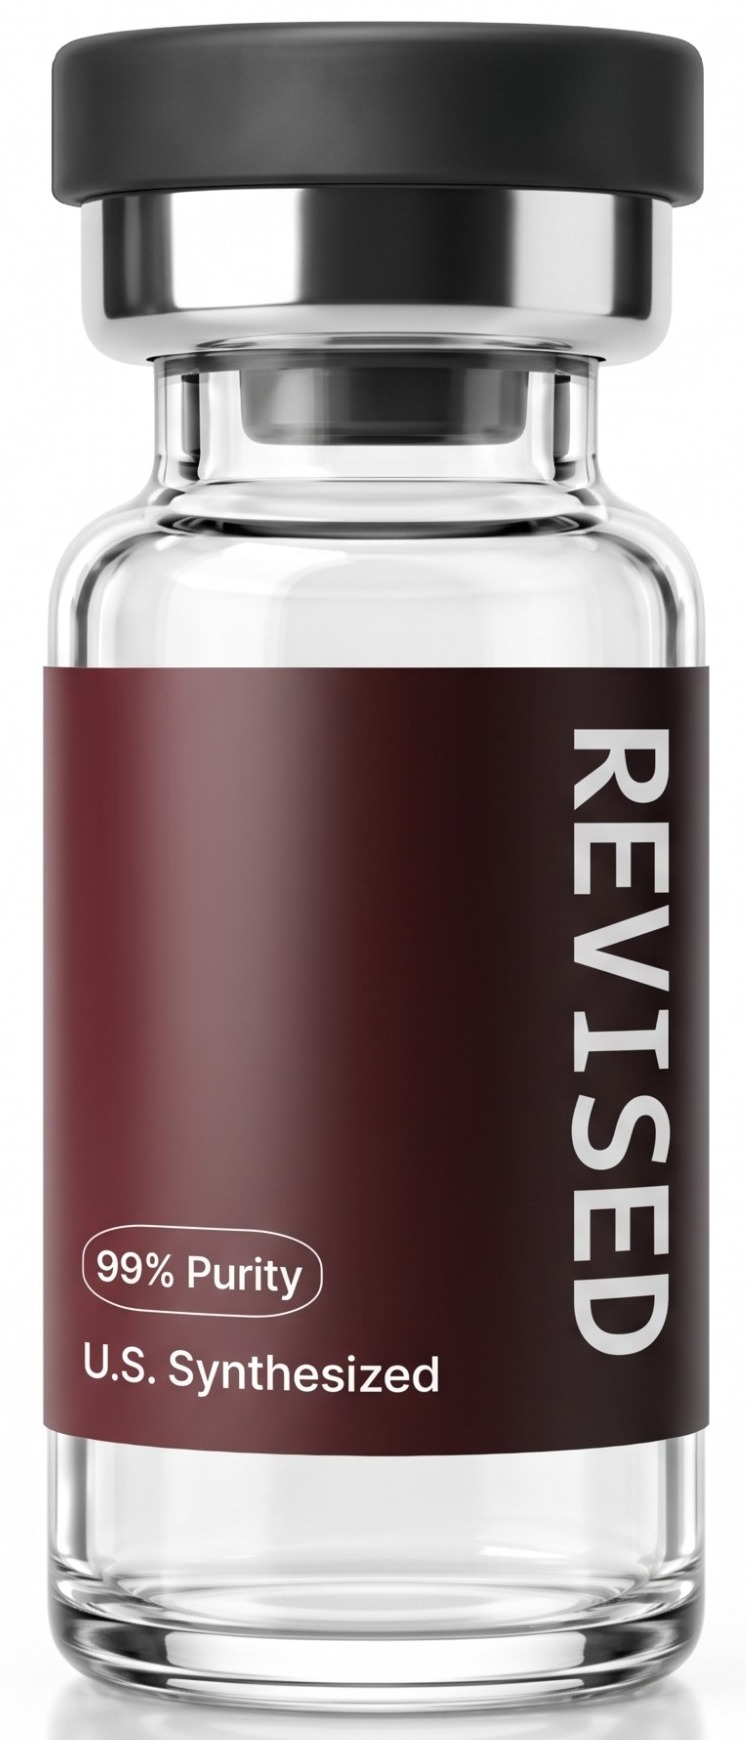
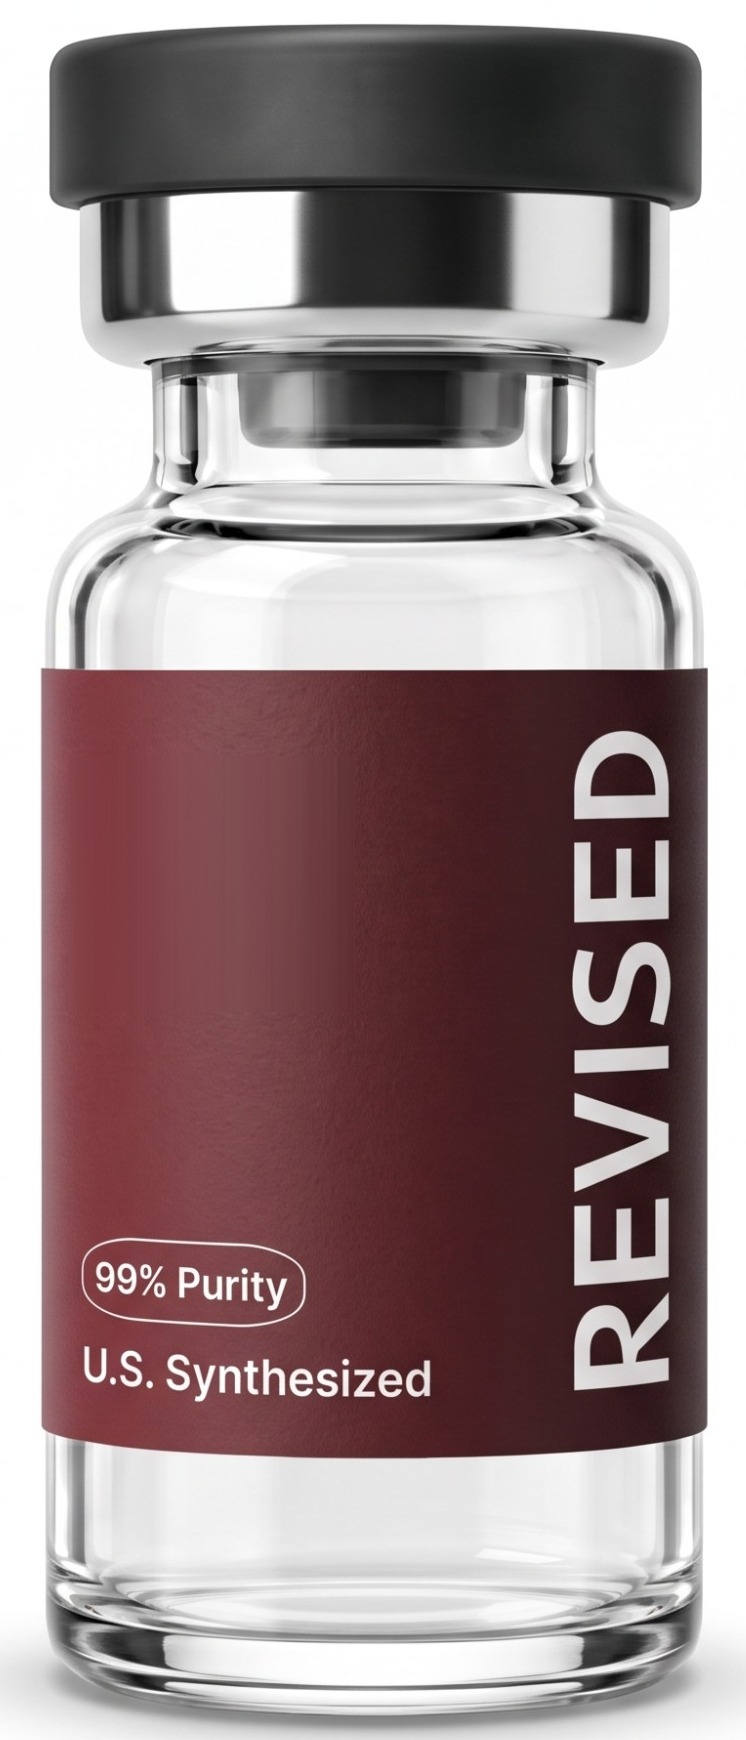
Vials: new photo set, clean glass bases, per-color text fit
- New studio shots for all three colors (navy on a gray backdrop).
- build-vials.mjs keys against the backdrop measured per row on both
  sides (handles gray/vignetted backdrops), uses a soft alpha knee instead
  of a hard cutoff (no blocky patches in the glass), fades out everything
  below the glass base, and keeps the cap/crimp's original pixels when
  filling it solid. CALIB_DIR exports un-erased crops for text checks.
- Name/pill positions re-measured against each photo (within ~2px);
  the navy photo prints larger, so it gets its own scale and offsets
  (vial-photo--metabolic). Long names still fit left of REVISED.

Claude-Session: https://claude.ai/code/session_01PrTRNVC7XRzDvkBfei43zw

diff --git a/components/Vial.tsx b/components/Vial.tsx
@@ -9,9 +9,8 @@
  * Text is sized in container-query units (cqw) so it stays locked to the
  * label at every rendered size, from 18px thumbnails to the PDP stage.
  */
-/** Label colors with a photo; anything else (bundles, supplies) uses navy. */
+/** Label colors with a photo; anything else (bundles, supplies) uses navy (metabolic). */
 const TONES = new Set(["repair", "metabolic", "cognitive"]);
-export const VIAL_SRC = "/vial/vial-metabolic.webp";
 
 export function Vial({
   name,
@@ -25,15 +24,16 @@ export function Vial({
   accent?: string;
   className?: string;
 }) {
+  const tone = accent && TONES.has(accent) ? accent : "metabolic";
   const label = name.length > 16 ? name.split(" ")[0] : name;
-  // Fit left of the vertical wordmark (~58% of the vial width; semibold sans ≈ 0.62em per glyph),
-  // capped at the size the name is printed in the studio design.
-  const size = Math.min(15, +(58 / (Math.max(label.length, 1) * 0.62)).toFixed(2));
+  // Fit left of the vertical wordmark (~56% of the vial width; semibold sans ≈ 0.62em per glyph),
+  // capped at the size the name is printed in the studio photo (--vp-scale: navy prints larger).
+  const fit = +(56 / (Math.max(label.length, 1) * 0.62)).toFixed(2);
   return (
-    <span className={"vial-photo " + className} role="img" aria-label={`${name}${option ? " " + option : ""} research vial`}>
+    <span className={`vial-photo vial-photo--${tone} ${className}`} role="img" aria-label={`${name}${option ? " " + option : ""} research vial`}>
       {/* eslint-disable-next-line @next/next/no-img-element */}
-      <img src={accent && TONES.has(accent) ? `/vial/vial-${accent}.webp` : VIAL_SRC} alt="" width={746} height={1740} decoding="async" draggable={false} />
-      <span className="vp-name" style={{ fontSize: `${size}cqw` }}>{label}</span>
+      <img src={`/vial/vial-${tone}.webp`} alt="" width={746} height={1740} decoding="async" draggable={false} />
+      <span className="vp-name" style={{ fontSize: `min(${fit}cqw, calc(15cqw * var(--vp-scale, 1)))` }}>{label}</span>
       {option ? <span className="vp-opt">{option.replace(/\s+/g, "")}</span> : null}
     </span>
   );

diff --git a/styles/shop.css b/styles/shop.css
@@ -56,15 +56,19 @@
   -webkit-mask-image: linear-gradient(180deg, #000 97%, transparent 100%); mask-image: linear-gradient(180deg, #000 97%, transparent 100%);
 }
 .vp-name {
-  position: absolute; left: 10.2%; top: 43.7%; line-height: 1; white-space: nowrap;
-  font-family: var(--font-sans); font-weight: 600; letter-spacing: -0.035em; color: var(--label-ink);
+  position: absolute; left: 10.7%; top: 43.7%; line-height: 1; white-space: nowrap;
+  font-family: var(--font-sans); font-weight: 600; letter-spacing: -0.06em; color: var(--label-ink);
 }
 .vp-opt {
-  position: absolute; left: 11.3%; top: 51.5%; line-height: 1; white-space: nowrap;
+  position: absolute; left: 10.9%; top: 50.8%; line-height: 1; white-space: nowrap;
   font-family: var(--font-sans); font-size: 7cqw; font-weight: 500; color: var(--label-ink-soft);
-  padding: 3.2cqw 2.2cqw; background: var(--label-pill); border: 0.5cqw solid var(--label-rule); border-radius: 3.4cqw;
+  padding: 3.85cqw 2.2cqw; background: var(--label-pill); border: 0.5cqw solid var(--label-rule); border-radius: 3.4cqw;
   box-shadow: 0 0.4cqw 1.2cqw rgba(0, 0, 0, 0.18);
 }
+/* The navy photo prints the name and size larger and a touch further right. */
+.vial-photo--metabolic { --vp-scale: 1.14; }
+.vial-photo--metabolic .vp-name { left: 12.2%; top: 43.3%; }
+.vial-photo--metabolic .vp-opt { left: 12.8%; font-size: 7.5cqw; padding: 3.95cqw 2.4cqw; }
 
 /* ── Vial art ────────────────────────────────────────────────── */
 .vial { height: auto; filter: drop-shadow(0 18px 22px rgba(23, 34, 51, 0.18)); }
